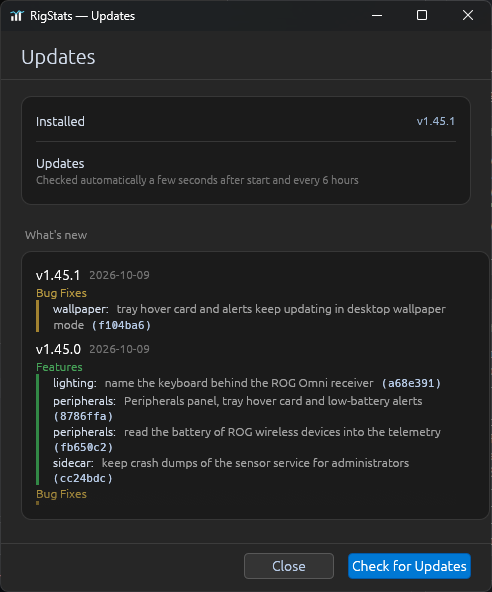
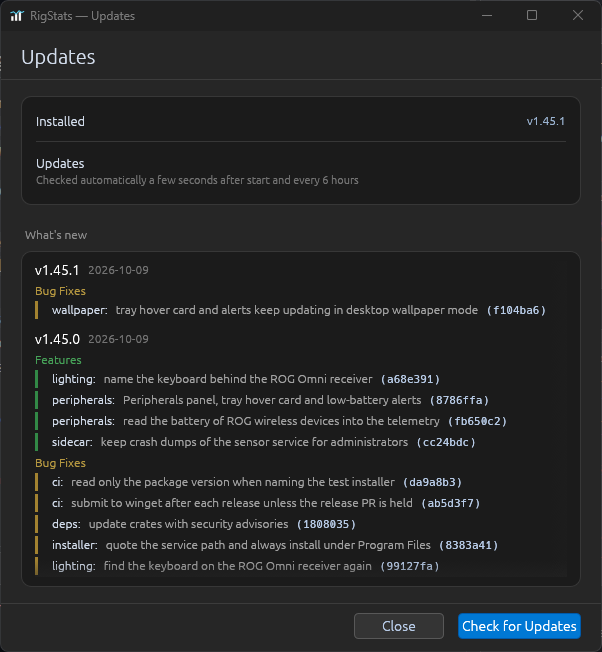
fix(ui): give the Updates notes a fixed-size card and a wider window
The What's new card still grew past the right margin (the scroll area's
width depends on its content and scrollbar). It is now ui_kit::fixed_card:
allocated and painted at an exact size, the notes scrolling and clipped
inside it, so it can't widen at any display scaling. The window is wider
(600 x 620) so release notes read on one line.

diff --git a/src-egui/src/windows/updater.rs b/src-egui/src/windows/updater.rs
@@ -629,31 +629,27 @@ pub fn show(
         .show(ctx, |ui| {
             version_group(ui, dc, &st.status);
             if let (true, Some((_, entries))) = (has_notes, &st.notes_cache) {
-                // Minus the group heading, the card's padding and the gap below it.
-                let height = (ui.available_height() - 72.0).max(120.0);
-                ui_kit::group(ui, dc, Some("What's new"), None, |g| {
-                    g.block(|ui| {
-                        // A fixed region the size of the card: long note
-                        // lines wrap (or clip) inside it instead of widening
-                        // the card past the page margin.
-                        // The scrollbar sits beside the content, so leave room for it.
-                        let bar = ui.spacing().scroll.allocated_width();
-                        let size = egui::vec2(ui.available_width() - bar, height);
-                        ui.allocate_ui_with_layout(
-                            size,
-                            egui::Layout::top_down(egui::Align::Min),
-                            |ui| {
-                                ui.set_clip_rect(ui.max_rect().intersect(ui.clip_rect()));
-                                egui::ScrollArea::vertical()
-                                    .id_salt("updater_notes")
-                                    .auto_shrink([false, false])
-                                    .show(ui, |ui| {
-                                        ui.set_max_width(ui.available_width());
-                                        render_notes(ui, dc, entries);
-                                    });
-                            },
-                        );
-                    });
+                ui.add_space(2.0);
+                ui.horizontal(|ui| {
+                    ui.add_space(4.0);
+                    ui.label(
+                        egui::RichText::new("What's new")
+                            .size(12.0)
+                            .strong()
+                            .color(dc.label),
+                    );
+                });
+                ui.add_space(4.0);
+                // The rest of the page, exactly: the notes scroll inside it.
+                let size = egui::vec2(
+                    ui.available_width(),
+                    (ui.available_height() - 8.0).max(120.0),
+                );
+                ui_kit::fixed_card(ui, dc, size, |ui| {
+                    egui::ScrollArea::vertical()
+                        .id_salt("updater_notes")
+                        .auto_shrink([false, false])
+                        .show(ui, |ui| render_notes(ui, dc, entries));
                 });
             }
         });

diff --git a/src-egui/src/windows/ui_kit.rs b/src-egui/src/windows/ui_kit.rs
@@ -122,6 +122,30 @@ pub fn group(
     ui.add_space(16.0);
 }
 
+/// A card of exactly `size`, for content that scrolls (release notes, a
+/// log): the card is allocated and painted first and the content placed
+/// inside it, clipped, so nothing in it can make the card wider than the
+/// page or taller than `size`.
+pub fn fixed_card(ui: &mut Ui, dc: &DialogColors, size: Vec2, add: impl FnOnce(&mut Ui)) {
+    let (rect, _) = ui.allocate_exact_size(size, Sense::hover());
+    let p = ui.painter();
+    p.rect_filled(rect, CornerRadius::same(CARD_RADIUS), dc.card);
+    p.rect_stroke(
+        rect,
+        CornerRadius::same(CARD_RADIUS),
+        Stroke::new(1.0_f32, dc.card_border),
+        StrokeKind::Inside,
+    );
+    let inner = rect.shrink2(vec2(14.0, 10.0));
+    let mut child = ui.new_child(
+        egui::UiBuilder::new()
+            .max_rect(inner)
+            .layout(Layout::top_down(Align::Min)),
+    );
+    child.set_clip_rect(inner.intersect(ui.clip_rect()));
+    add(&mut child);
+}
+
 /// The rows of one [`group`]; each one after the first gets a hairline.
 pub struct Group<'a> {
     ui: &'a mut Ui,

diff --git a/src-egui/src/app/dialogs.rs b/src-egui/src/app/dialogs.rs
@@ -375,7 +375,7 @@ impl RigStatsApp {
             let focus = self.dialogs.updater_focus.clone();
             let state = self.dialogs.updater_win.clone();
             let mctx = main_ctx.clone();
-            let [px, py] = dialog_center(490.0, 560.0);
+            let [px, py] = dialog_center(600.0, 620.0);
             let wants_focus = focus.load(Ordering::Relaxed);
             let mut found_hwnd: isize = 0;
             let visible = self.dialogs.dialog_reveal.visible("updater");
@@ -384,7 +384,7 @@ impl RigStatsApp {
                 egui::ViewportBuilder::default()
                     .with_title("RigStats — Updates")
                     .with_visible(visible)
-                    .with_inner_size([490.0, 560.0])
+                    .with_inner_size([600.0, 620.0])
                     .with_position([px, py])
                     .with_resizable(false)
                     .with_taskbar(false)

diff --git a/src-egui/src/windows/CLAUDE.md b/src-egui/src/windows/CLAUDE.md
@@ -62,6 +62,7 @@ The Control Center adds a profile bar under the hero (`ui_kit::chip` per profile
 | Warn/crit number | `threshold_field` |
 | Navigate | `nav_item` with an `Icon` (tinted badge, one colour per kind of setting) |
 | A summary that opens a page | `tile` |
+| Content that scrolls (release notes, a log) | `fixed_card` — exact size, content clipped inside, so it can never widen the page (a `ScrollArea` inside a `group` puts its scrollbar beside the given width and pushes the card past the margin) |
 | Main / other action | `theme::dialog_btn_primary` / `theme::dialog_btn_secondary` |
 
 Buttons: `ui.with_layout(Layout::right_to_left(Align::Center), …)`, primary added first lands rightmost.
